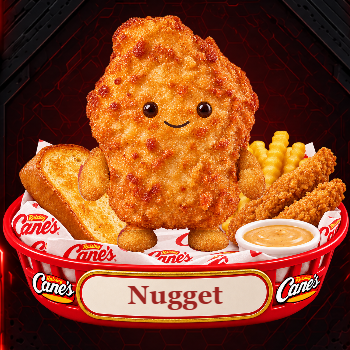
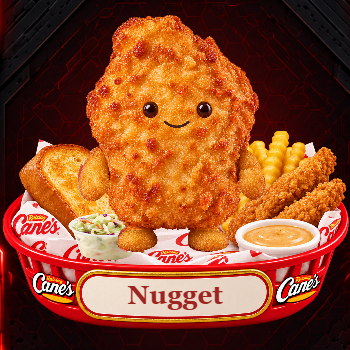
Add coleslaw to Nugget’s Raising Cane’s basket

Changed region(s): [[0.2, 0.6, 0.3714, 0.7429]]

diff --git a/nugget-pet/accessories.js b/nugget-pet/accessories.js
@@ -10,12 +10,16 @@ window.createNuggetBasketAccessories=()=>{
    const image=await new Promise((resolve,reject)=>{const i=new Image();i.onload=()=>resolve(i);i.onerror=()=>reject(Error('Could not load '+labels[name]));i.src=new URL((['mcdonalds','chick-fil-a','burger-king','raising-canes'].includes(name)?'themes/'+name+'.png':name+'-v2.png'),nuggetAccessoryBase).href});
    images.set(name,image);
   }
+  if(name==='raising-canes'&&!images.has('coleslaw')){
+   const cup=await new Promise((resolve,reject)=>{const i=new Image();i.onload=()=>resolve(i);i.onerror=()=>reject(Error('Could not load coleslaw'));i.src=new URL('themes/coleslaw.png',nuggetAccessoryBase).href});
+   images.set('coleslaw',cup);
+  }
   if(current===version)selected=name;
   return selected;
  }
  function draw(ctx,basket){
   const image=images.get(selected);if(!image||selected==='none')return;
-  if(['mcdonalds','chick-fil-a','burger-king','raising-canes'].includes(selected)){ctx.drawImage(image,0,0,1024,1024);return;}
+  if(['mcdonalds','chick-fil-a','burger-king','raising-canes'].includes(selected)){ctx.drawImage(image,0,0,1024,1024);if(selected==='raising-canes'&&images.has('coleslaw'))ctx.drawImage(images.get('coleslaw'),190,600,240,180);return;}
   // Generous portions surround the pet, behind its moving body and limbs.
   // Clip to the inside of the basket, preserving the foreground rim and label.
   ctx.save();ctx.beginPath();ctx.moveTo(20,285);ctx.lineTo(1004,285);ctx.lineTo(1004,650);ctx.bezierCurveTo(950,735,740,775,510,775);ctx.bezierCurveTo(275,775,80,730,20,660);ctx.closePath();ctx.clip();

diff --git a/index.html b/index.html
@@ -83,7 +83,7 @@
   <link rel="stylesheet" href="nugget-pet/interactive.css?v=20261031-preserve-size-v2">
   <script src="nugget-pet/skins.js?v=20261031-flavors-v1"></script>
   <script src="nugget-pet/materials.js?v=20261031-natural-face-v3"></script>
-  <script src="nugget-pet/accessories.js?v=20261031-themed-baskets-v2"></script>
+  <script src="nugget-pet/accessories.js?v=20261031-canes-coleslaw-v1"></script>
   <script src="nugget-pet/rig.js?v=20261031-themed-baskets-v2"></script>
   <script src="nugget-pet/interactive.js?v=20261031-lazy-rig-v1"></script>
   <script src="pet-studio.js?v=20261031-themed-baskets-v2"></script>
